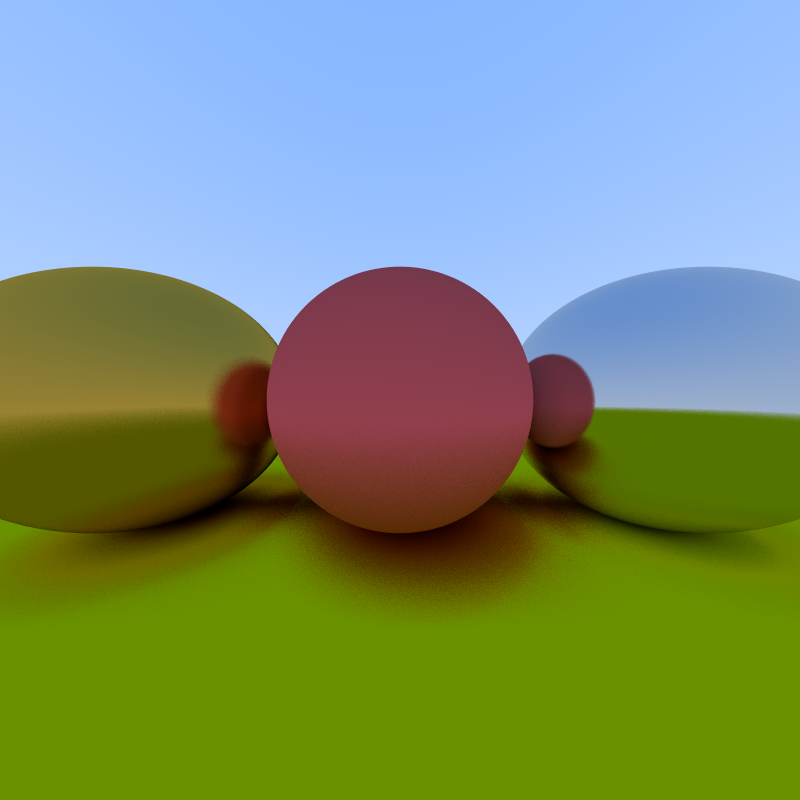
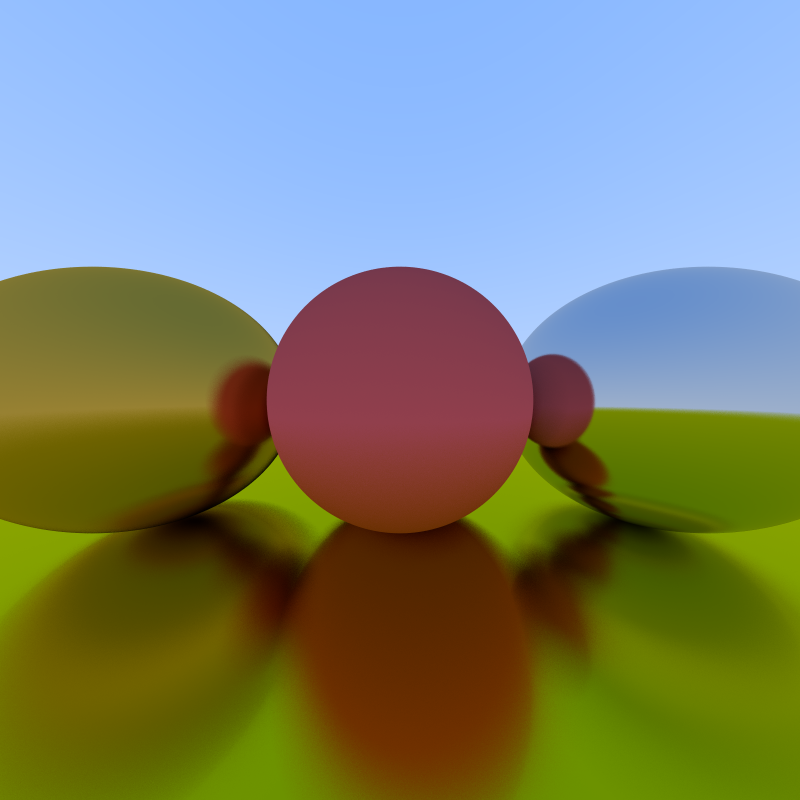
Add multithreading

Changed region(s): [[0.0, 0.5, 1.0, 1.0], [0.0, 0.5312, 0.1875, 0.5938]]

diff --git a/src/camera.rs b/src/camera.rs
@@ -1,6 +1,7 @@
 use cgmath::{Deg, InnerSpace, Rad, Vector3};
-use image::{GenericImage, ImageBuffer, Rgb, RgbImage};
+use image::{ImageBuffer, Rgb, RgbImage};
 use math::Ray;
+use rayon::prelude::*;
 
 pub struct Camera {
     pub width: u32,
@@ -41,7 +42,7 @@ impl Camera {
     }
     pub fn render<F>(&self, samples: u32, f: F) -> RgbImage
     where
-        F: Fn(Ray) -> Vector3<f32>,
+        F: Fn(Ray) -> Vector3<f32> + Send + Sync,
     {
         use rand::random;
         let mut image_buffer = ImageBuffer::new(self.width, self.height);
@@ -51,8 +52,14 @@ impl Camera {
 
         let forward = self.w * self.focus_dist;
         let upper_left_corner = forward - right + up;
-        for y in (0..self.height).rev() {
-            for x in 0..self.width {
+        let x_iter = (0..self.width).into_par_iter();
+        // Lazy workaround: Collect into a temporary buffer
+        let results: Vec<_> = x_iter
+            .flat_map(|x| {
+                let y_iter = (0..self.height).into_par_iter().rev();
+                y_iter.map(move |y| (x, y))
+            })
+            .map(|(x, y)| {
                 let average = (0..samples)
                     .map(|_| {
                         let u = (x as f32 + random::<f32>()) / self.width as f32;
@@ -62,10 +69,12 @@ impl Camera {
                         f(ray)
                     })
                     .sum::<Vector3<f32>>() / samples as f32;
-                let rgb = vec_to_rgb(average);
-                image_buffer.put_pixel(x, y, rgb);
-            }
-        }
+                (x, y, vec_to_rgb(average))
+            })
+            .collect();
+        results.into_iter().for_each(|(x, y, rgb)| {
+            image_buffer.put_pixel(x, y, rgb);
+        });
         image_buffer
     }
 }

diff --git a/src/main.rs b/src/main.rs
@@ -18,8 +18,12 @@ fn main() {
     let objects = vec![
         Object {
             primitive: Primitive::Sphere(Sphere::new(Vector3::new(0.0, -100.5, -1.0), 100.0)),
-            material: Material::Lambert(Lambert {
+            // material: Material::Lambert(Lambert {
+            //     albedo: Vector3::new(0.8, 0.8, 0.0),
+            // }),
+            material: Material::Metal(Metal {
                 albedo: Vector3::new(0.8, 0.8, 0.0),
+                fuzz: 0.3,
             }),
         },
         Object {
@@ -51,6 +55,6 @@ fn main() {
     ];
     let world = World { objects };
 
-    let image = cam.render(100, |ray| world.color(ray));
+    let image = cam.render(400, |ray| world.color(ray));
     image.save("render.png").unwrap();
 }

diff --git a/src/lib.rs b/src/lib.rs
@@ -1,6 +1,7 @@
 extern crate cgmath;
 extern crate rand;
 extern crate image;
+extern crate rayon;
 pub mod camera;
 
 pub mod math;
